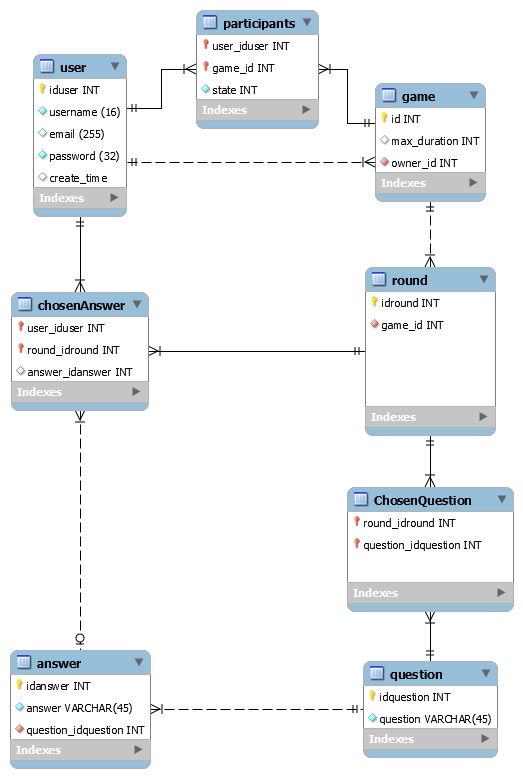
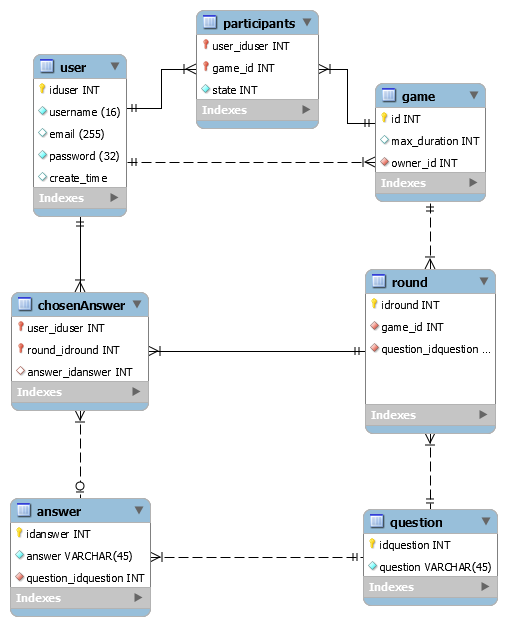
Correction des schéma de base de données + ajout des migrations

Changed region(s): [[0.0, 0.0607, 1.0, 1.0], [0.3254, 0.0, 0.6805, 0.2125], [0.2959, 0.5463, 0.3254, 0.5767]]

diff --git a/Site/database/migrations/2016_11_02_125447_create_game_participant_round_tables.php b/Site/database/migrations/2016_11_02_125447_create_game_participant_round_tables.php
@@ -1,0 +1,50 @@
+<?php
+
+use Illuminate\Support\Facades\Schema;
+use Illuminate\Database\Schema\Blueprint;
+use Illuminate\Database\Migrations\Migration;
+
+class CreateGameParticipantRoundTables extends Migration
+{
+    /**
+     * Run the migrations.
+     *
+     * @return void
+     */
+    public function up()
+    {
+        Schema::create('game', function (Blueprint $table) {
+            $table->increments('id');
+            $table->unsignedinteger('max_duration');
+            $table->unsignedinteger('owner_id');
+			$table->foreign('owner_id')->references('id')->on('users');
+        });
+        Schema::create('participant', function (Blueprint $table) {
+            $table->unsignedinteger('user_id');
+            $table->unsignedinteger('game_id');
+            $table->Integer('state');
+			$table->foreign('user_id')->references('id')->on('users');
+			$table->foreign('game_id')->references('id')->on('game');
+			$table->primary(['user_id', 'game_id']);
+        });
+        Schema::create('round', function (Blueprint $table) {
+            $table->increments('id');
+            $table->unsignedinteger('game_id');
+            $table->unsignedinteger('question_id');
+			$table->foreign('game_id')->references('id')->on('game');
+			$table->foreign('question_id')->references('id')->on('question');
+        });
+    }
+
+    /**
+     * Reverse the migrations.
+     *
+     * @return void
+     */
+    public function down()
+    {
+        Schema::drop('round');
+        Schema::drop('participant');
+        Schema::drop('game');
+    }
+}

diff --git a/Site/database/migrations/2016_11_02_124350_create_question_answer_tables.php b/Site/database/migrations/2016_11_02_124350_create_question_answer_tables.php
@@ -1,0 +1,39 @@
+<?php
+
+use Illuminate\Support\Facades\Schema;
+use Illuminate\Database\Schema\Blueprint;
+use Illuminate\Database\Migrations\Migration;
+
+class CreateQuestionAnswerTables extends Migration
+{
+    /**
+     * Run the migrations.
+     *
+     * @return void
+     */
+    public function up()
+    {
+		
+        Schema::create('question', function (Blueprint $table) {
+            $table->increments('id');
+            $table->string('question');
+        });
+        Schema::create('answer', function (Blueprint $table) {
+            $table->increments('id');
+            $table->string('answer');
+			$table->unsignedinteger('question_id');
+			$table->foreign('question_id')->references('id')->on('question');
+        });
+    }
+
+    /**
+     * Reverse the migrations.
+     *
+     * @return void
+     */
+    public function down()
+    {
+        Schema::drop('answer');
+        Schema::drop('question');
+    }
+}

diff --git a/Site/database/migrations/2016_11_02_131758_create_chosenAnswer.php b/Site/database/migrations/2016_11_02_131758_create_chosenAnswer.php
@@ -1,0 +1,36 @@
+<?php
+
+use Illuminate\Support\Facades\Schema;
+use Illuminate\Database\Schema\Blueprint;
+use Illuminate\Database\Migrations\Migration;
+
+class CreateChosenAnswer extends Migration
+{
+    /**
+     * Run the migrations.
+     *
+     * @return void
+     */
+    public function up()
+    {
+        Schema::create('chosenAnswer', function (Blueprint $table) {
+			$table->unsignedinteger('users_id');
+			$table->unsignedinteger('round_id');
+			$table->unsignedinteger('answer_id')->nullable();
+			$table->foreign('users_id')->references('id')->on('users');
+			$table->foreign('round_id')->references('id')->on('round');
+			$table->foreign('answer_id')->references('id')->on('answer');
+			$table->primary(['users_id', 'round_id']);
+        });
+    }
+
+    /**
+     * Reverse the migrations.
+     *
+     * @return void
+     */
+    public function down()
+    {
+        Schema::drop('chosenAnswer');
+    }
+}
